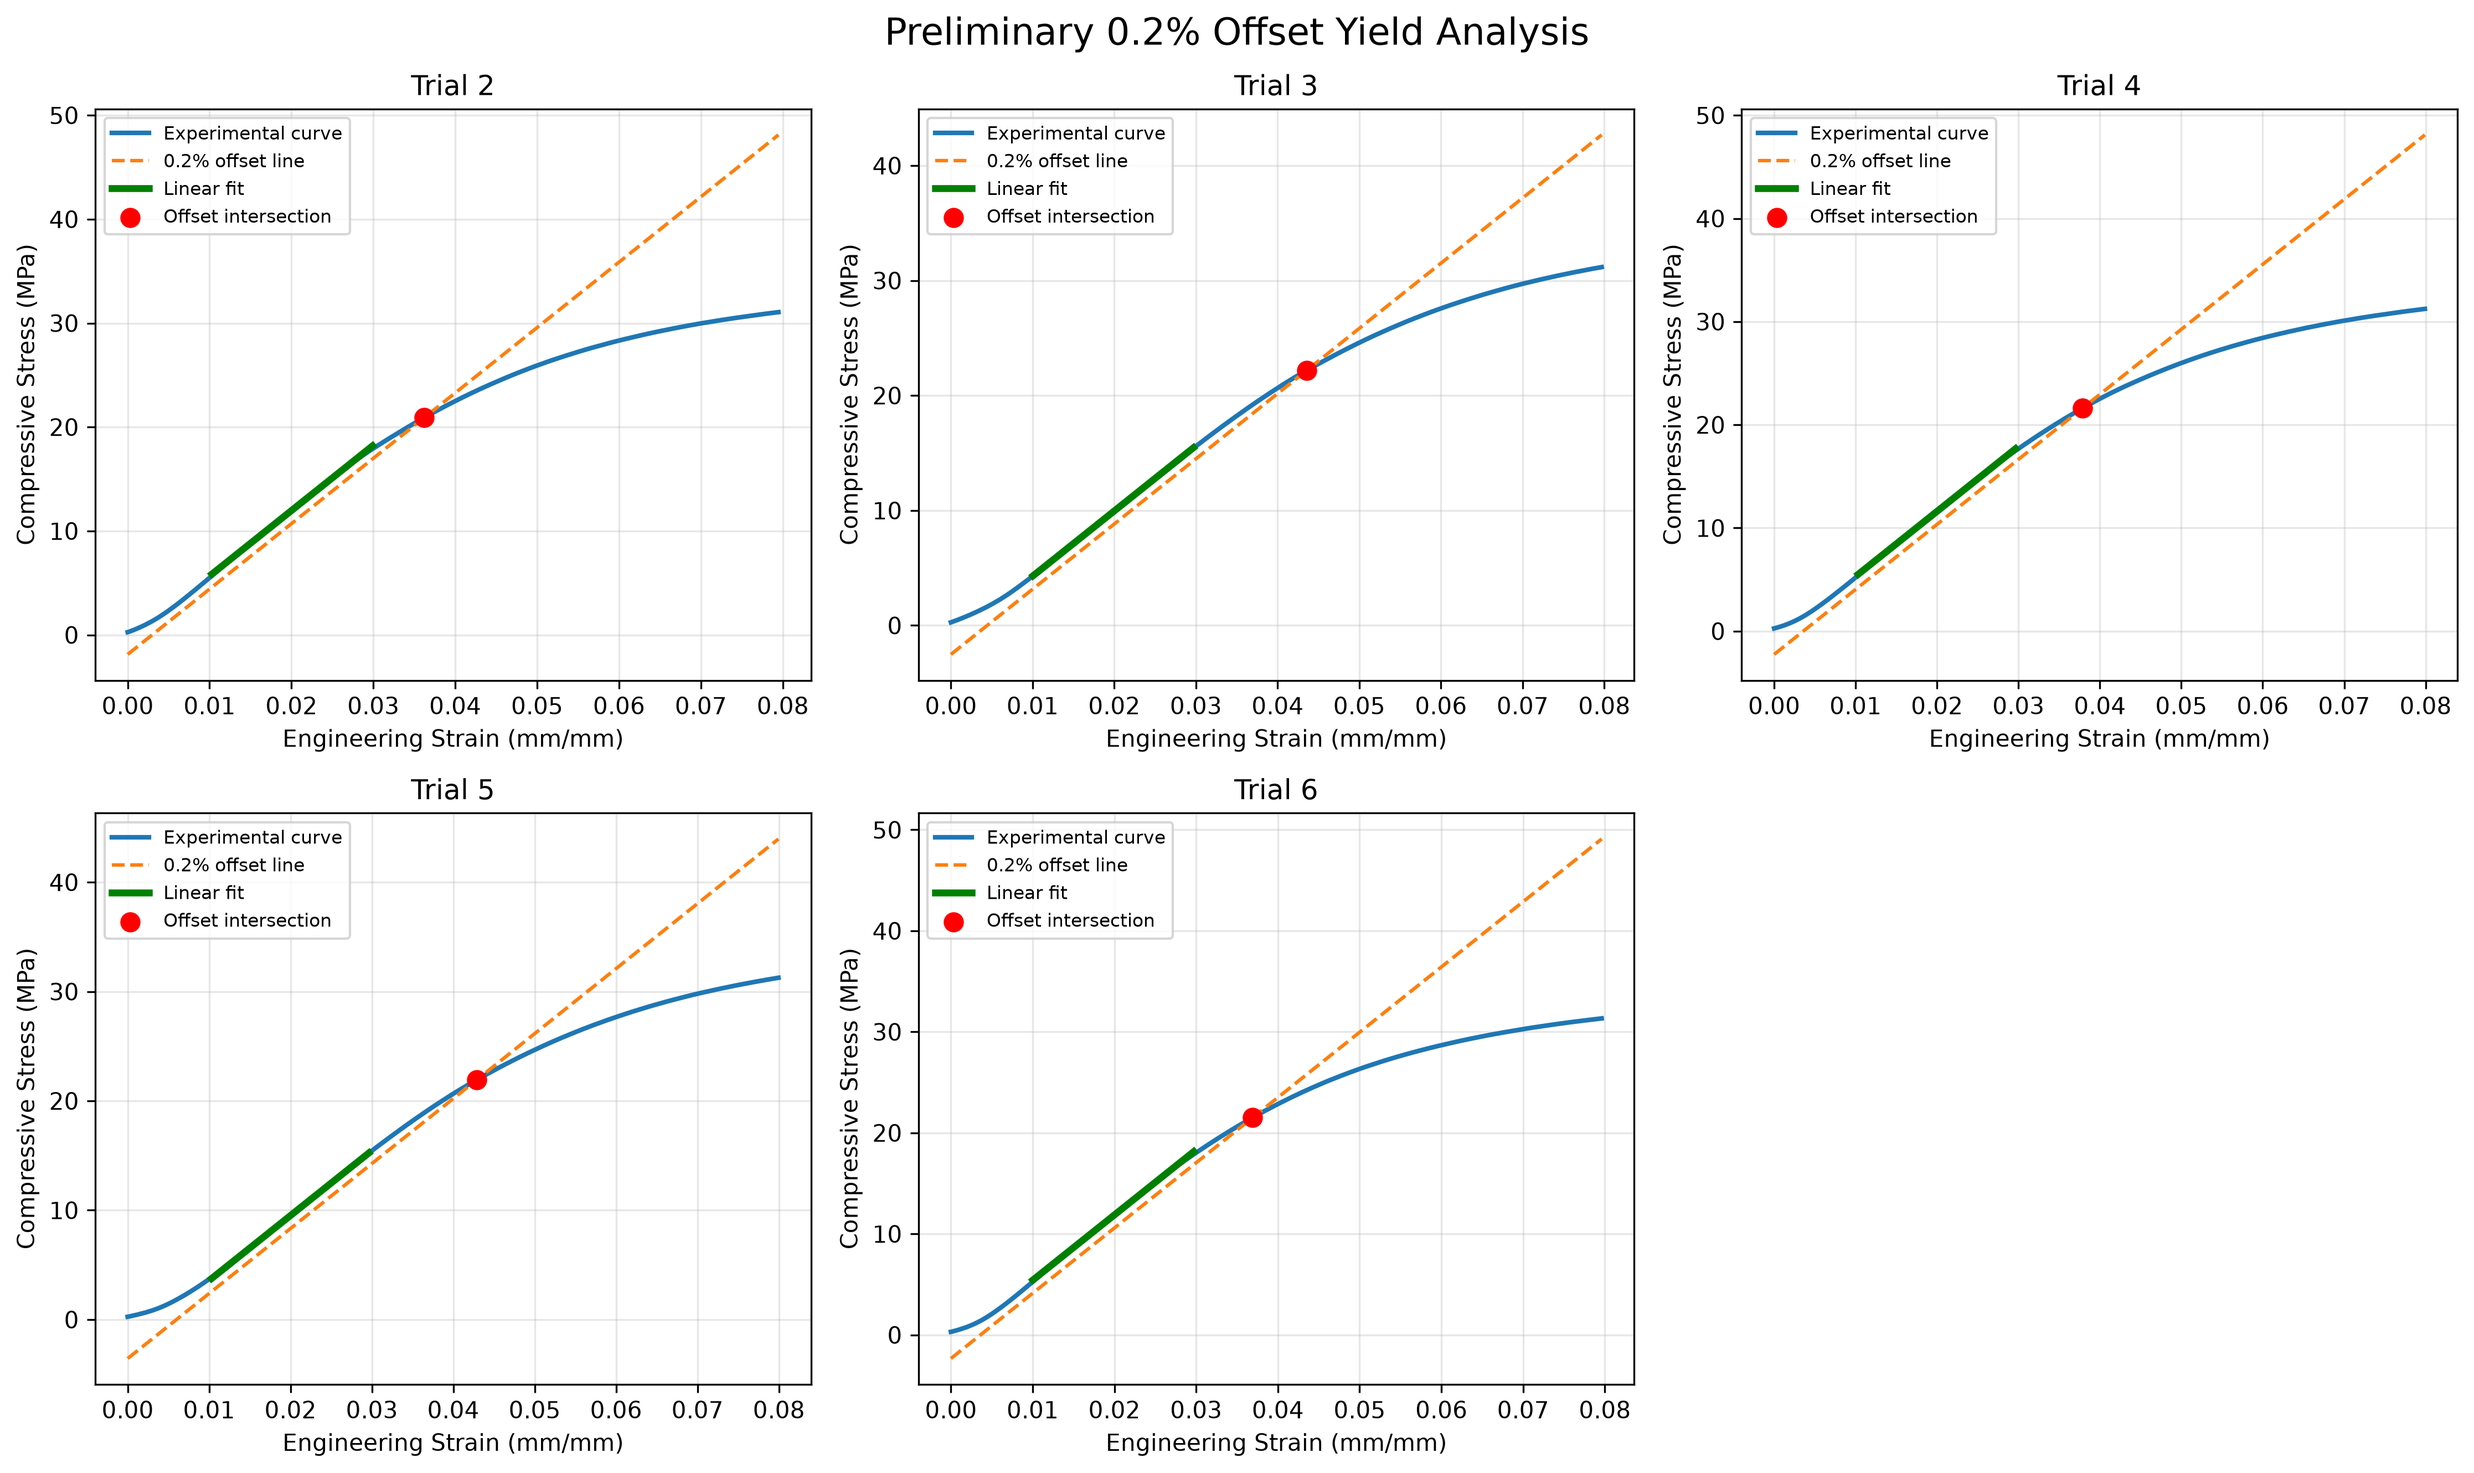
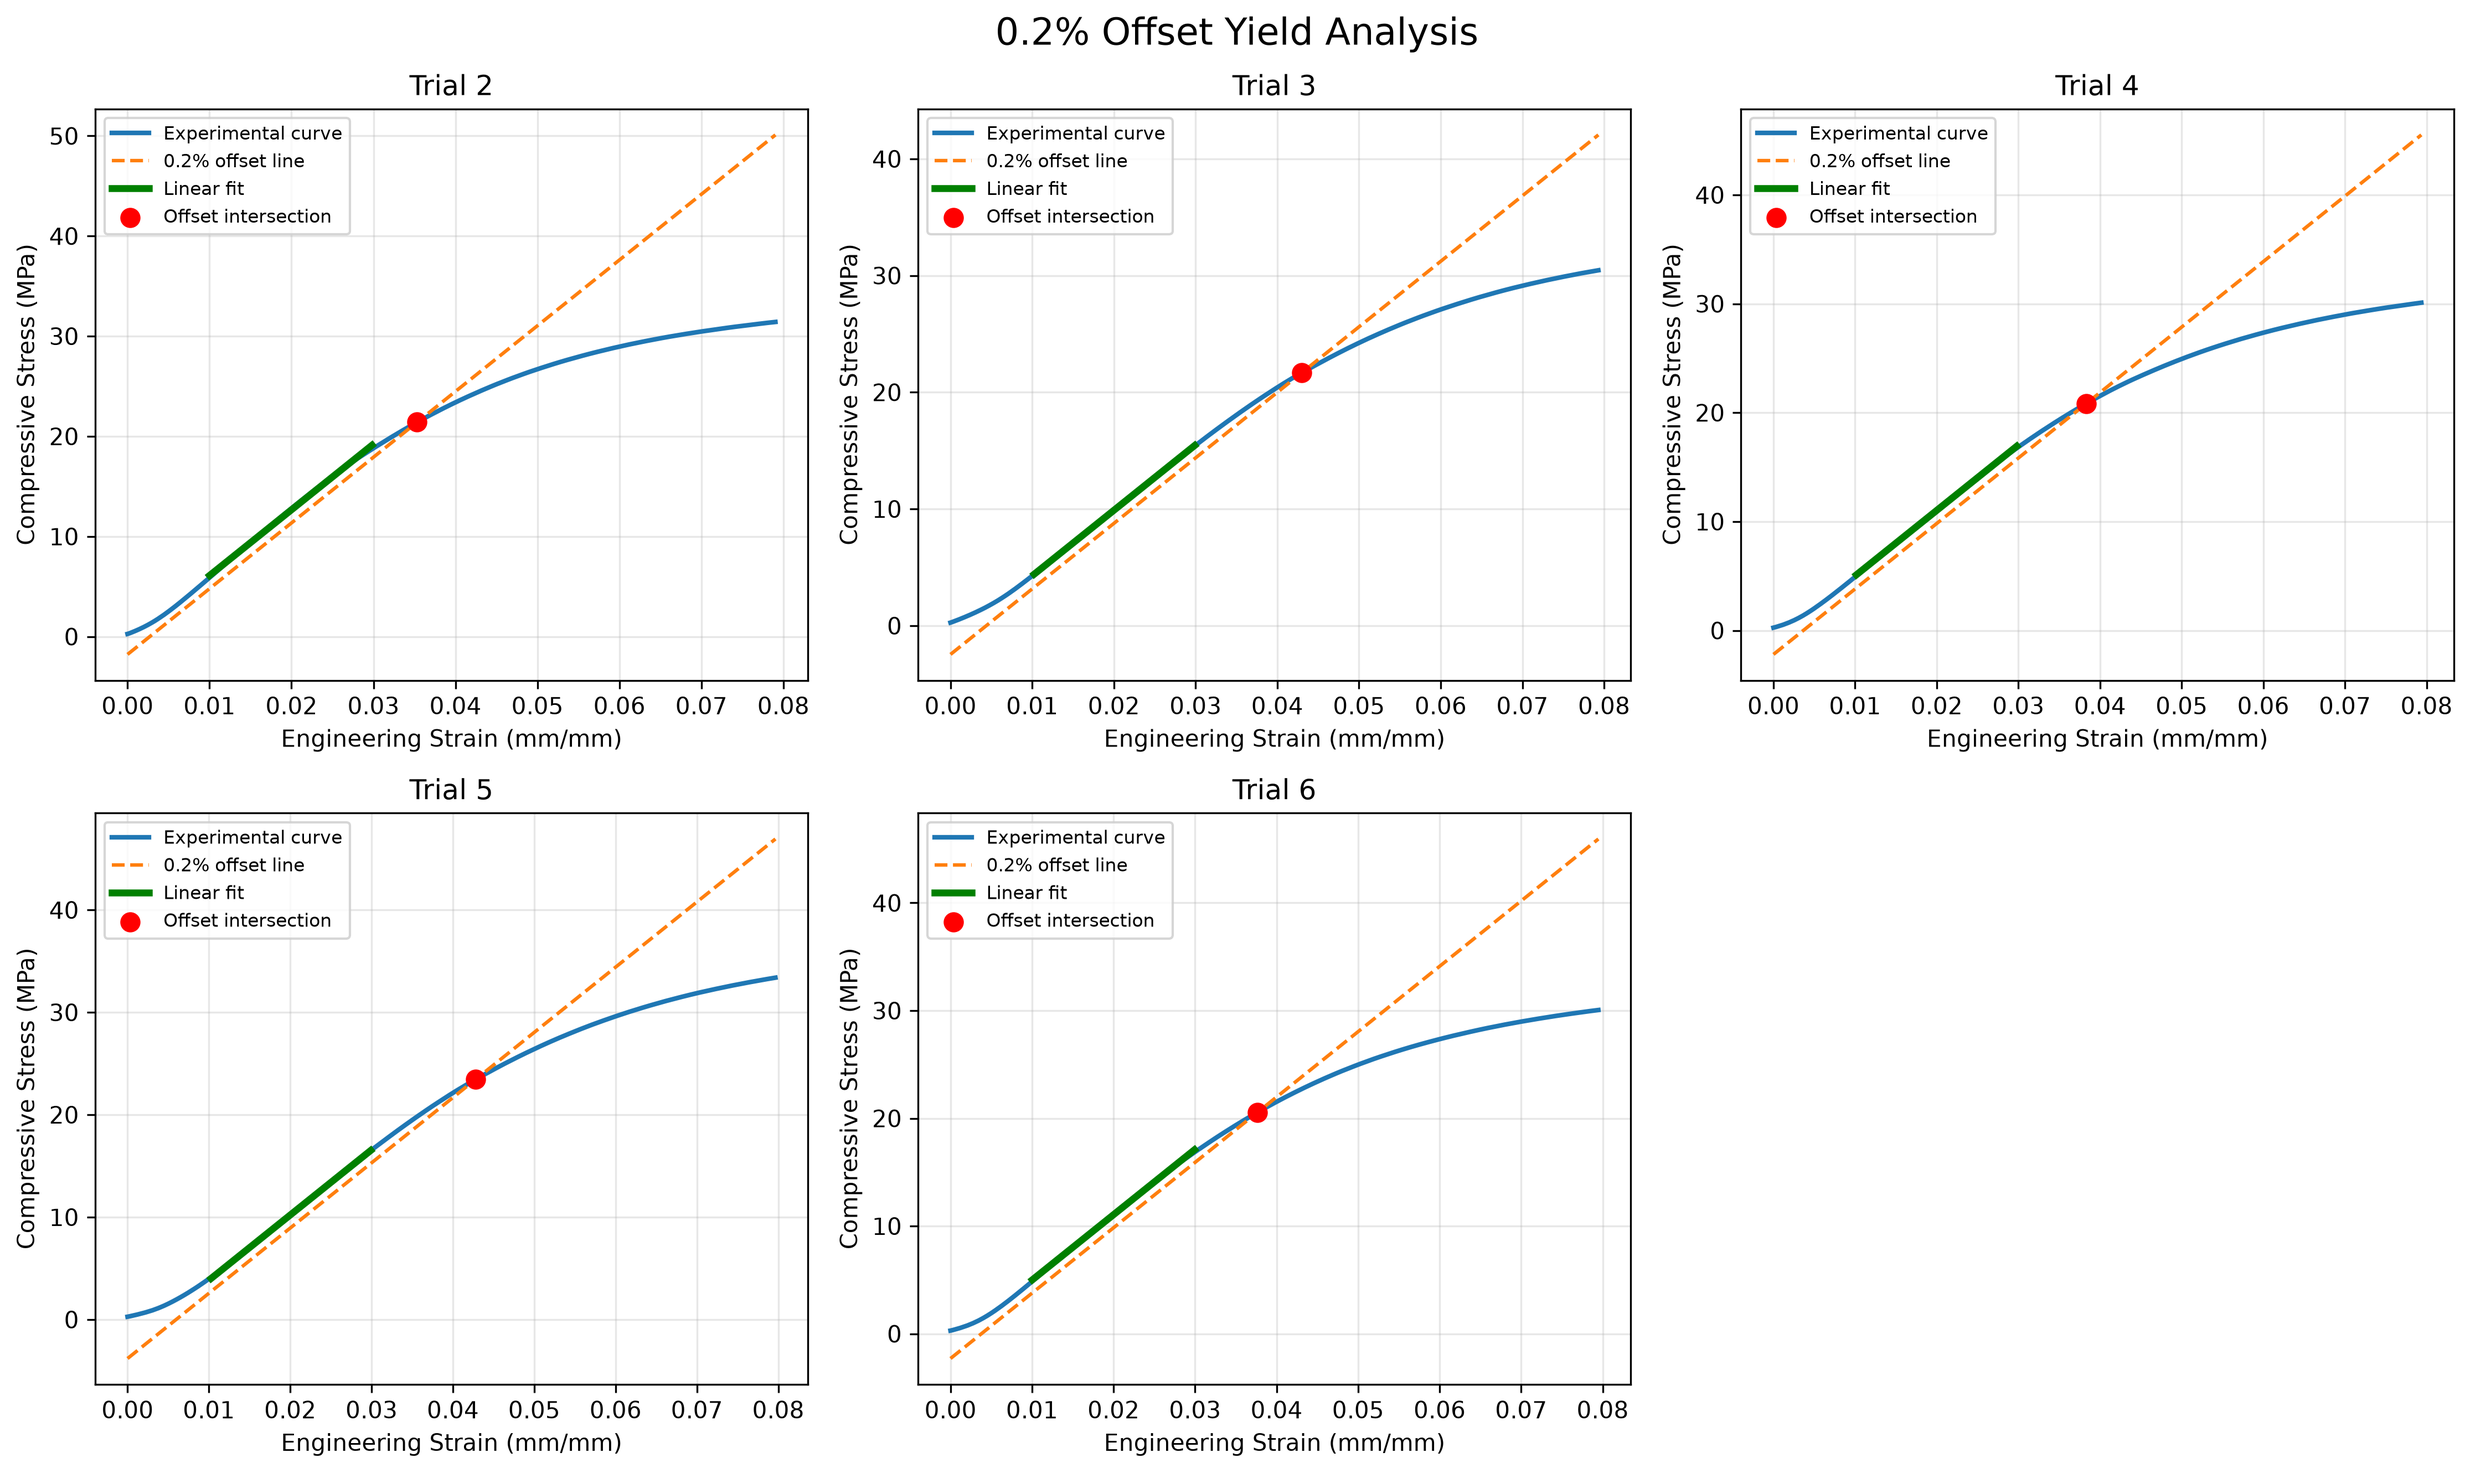
updated dimensions

diff --git a/scripts/calculate_mechanical_properties.py b/scripts/calculate_mechanical_properties.py
@@ -14,11 +14,11 @@ FIGURES_DIR.mkdir(exist_ok=True)
 RESULTS_DIR.mkdir(exist_ok=True)
 
 dimensions = {
-    2: (19.14, 20.29, 19.17),
-    3: (18.80, 19.19, 19.72),
-    4: (19.17, 19.19, 19.13),
-    5: (19.10, 19.17, 20.45),
-    6: (19.89, 19.12, 17.56),
+    2: (20.26, 20.25, 19.22),
+    3: (19.14, 20.29, 19.17),
+    4: (18.80, 19.19, 19.72),
+    5: (19.17, 19.19, 19.13),
+    6: (19.17, 19.25, 18.01),
 }
 
 STRAIN_MIN = 0.01
@@ -210,7 +210,7 @@ for plot_index, (trial, dims) in enumerate(dimensions.items()):
 axes[-1].axis("off")
 
 fig.suptitle(
-    "Preliminary 0.2% Offset Yield Analysis",
+    "0.2% Offset Yield Analysis",
     fontsize=16,
 )
 

diff --git a/scripts/stress_strain.py b/scripts/stress_strain.py
@@ -10,11 +10,11 @@ FIGURES_DIR.mkdir(exist_ok=True)
 
 # Had to replace instron output dimensions with actual dimensions
 specimens = {
-    2: {"height": 19.14, "area": 388.96},
-    3: {"height": 18.80, "area": 378.43},
-    4: {"height": 19.17, "area": 367.10},
-    5: {"height": 19.10, "area": 392.03},
-    6: {"height": 19.89, "area": 335.75},
+    2: {"height": 20.26, "area": 20.25 * 19.22},
+    3: {"height": 19.14, "area": 20.29 * 19.17},
+    4: {"height": 18.80, "area": 19.19 * 19.72},
+    5: {"height": 19.17, "area": 19.19 * 19.13},
+    6: {"height": 19.17, "area": 19.25 * 18.01},
 }
 
 plt.figure(figsize=(9, 6))
